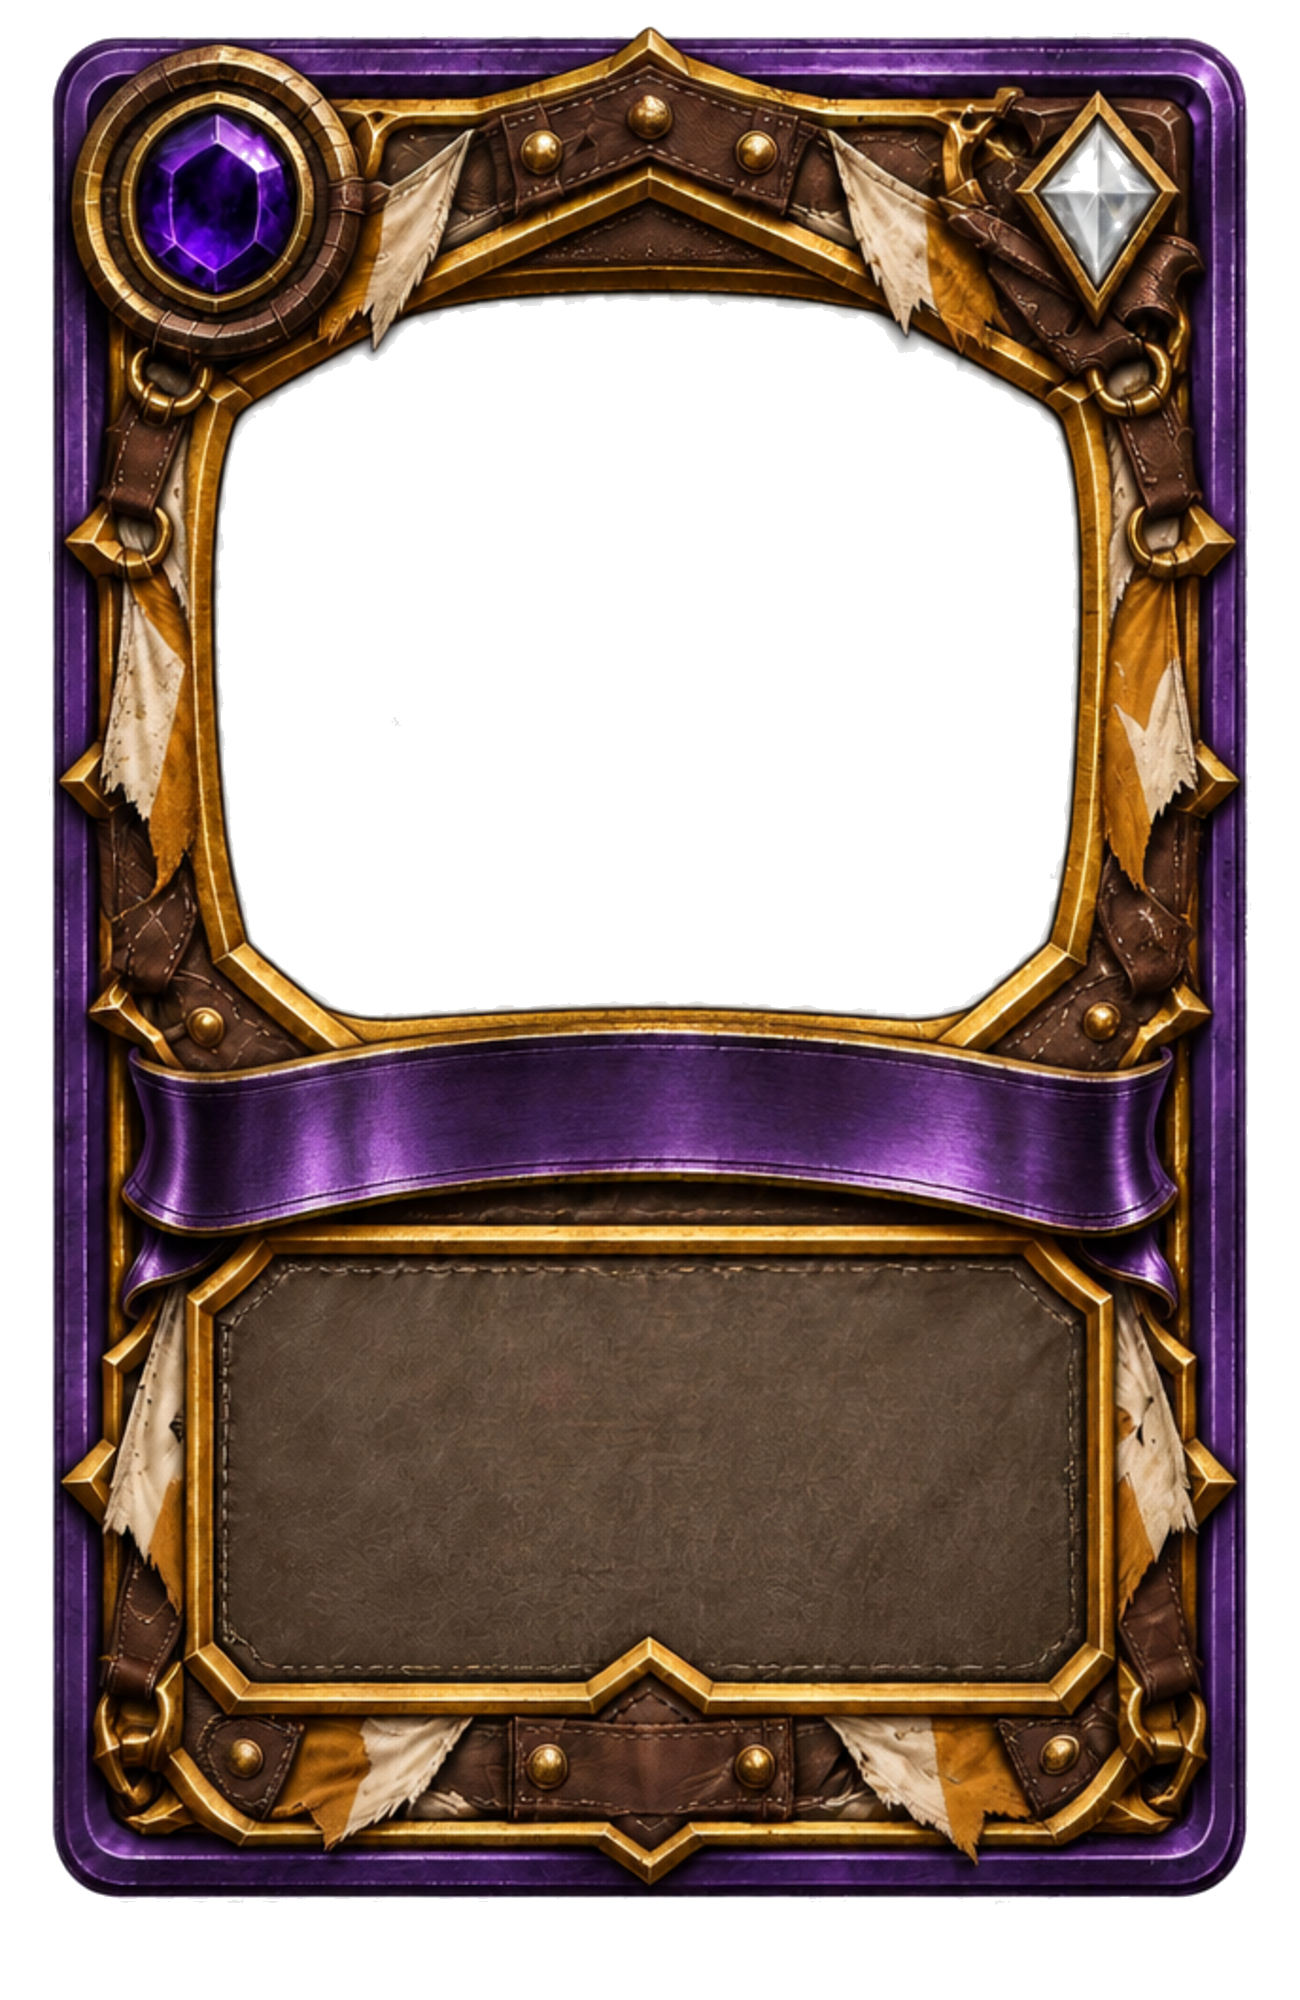
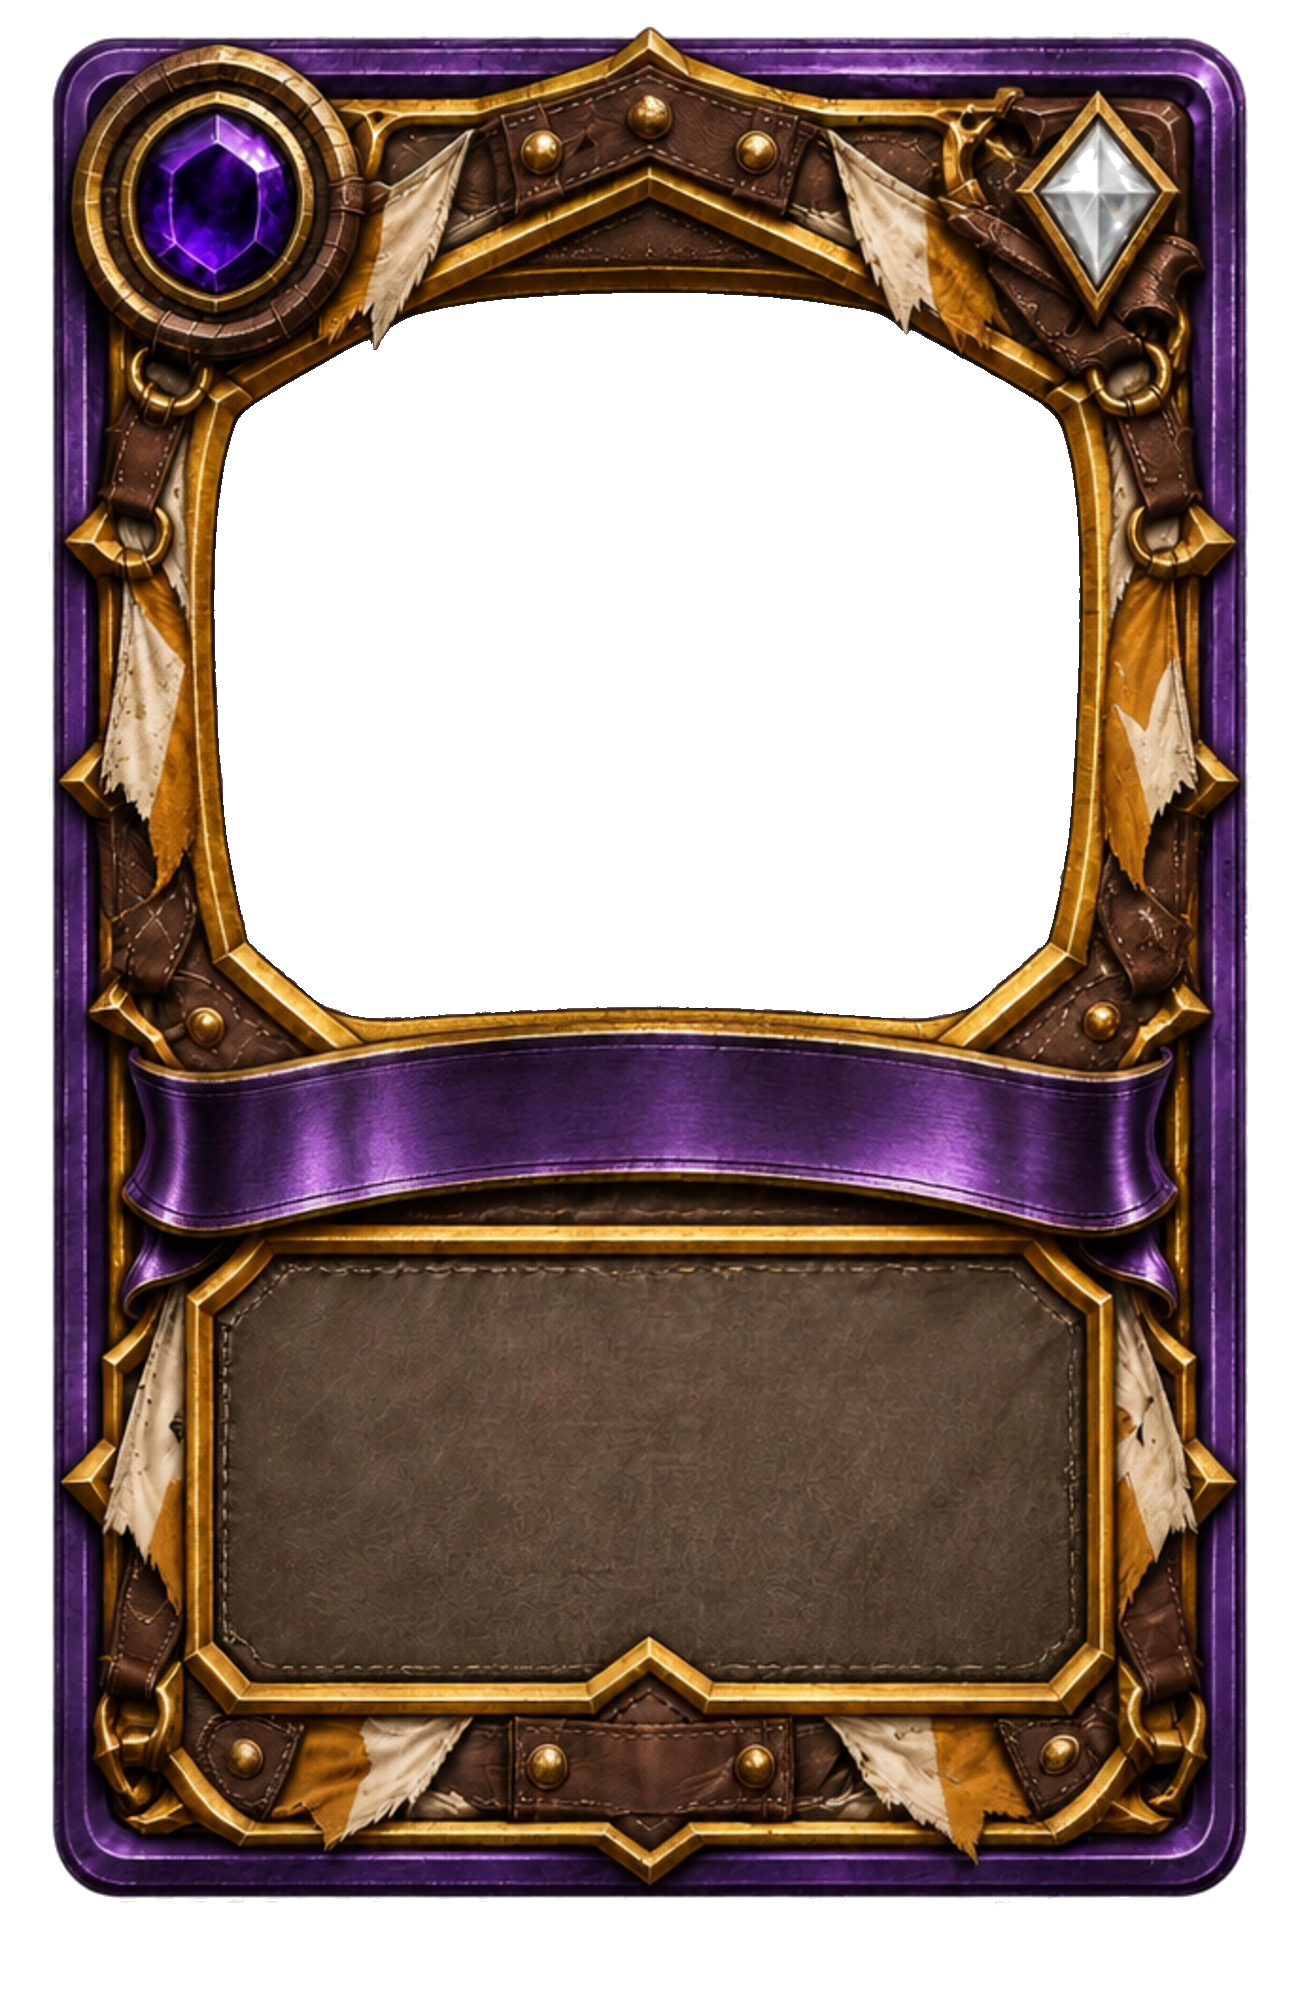
v0.221: battlefield art-hole punch, artifact concepts×3, HUD/end-turn/연속/overlay/lore modal
- Punch battlefield master art window to clean alpha via connected flood-fill
- Add 3 attribute-neutral artifact frame concepts (1300×2000, punched)
- Fix startup layout race (wait boardBg + double rAF; hud-ready)
- End-turn only on pointerup still over #endBtn
- Continuous attack retargets next living enemy after kill
- Nudge unit race label up ~5px and soul digit ~2px
- Tighten card lore modal (fit-content; no min-height stretch)

diff --git a/fantasy_arena/css/game.css b/fantasy_arena/css/game.css
@@ -623,7 +623,7 @@
     width: 58px; height: 72px;
[1 lines of base64/hex data omitted]
   }
-  .gem-cost span { font-size: 22px; transform: translateY(6px); }
+  .gem-cost span { font-size: 22px; transform: translateY(4px); } /* v0.221: soul digit up ~2px */
   .gem-atk {
     bottom: -16px; left: -16px;
     width: 64px; height: 64px;
@@ -728,7 +728,7 @@
   }
   /* hero-card .art is defined once at the top — do not crop to 72px */
   .c-tribe {
-    font-size: 10px; text-align:center; color:#e8c97a; letter-spacing:.12em; margin-top:2px;
+    font-size: 10px; text-align:center; color:#e8c97a; letter-spacing:.12em; margin-top:-3px; /* v0.221: race label up ~5px */
   }
 
 
@@ -964,23 +964,39 @@
   }
   .card-menu h3 { color: var(--gold); margin: 0 0 14px; font-size: 18px; }
   .card-menu button { width: 100%; margin: 6px 0; }
+  /* v0.221: wrap content — no empty right/bottom; card keeps 2:3 */
   .lore-box {
-    display: flex; gap: 22px; align-items: flex-start;
+    display: flex; gap: 16px; align-items: flex-start;
     background: #1a140c; border: 2px solid var(--gold); border-radius: 16px;
-    padding: 18px; max-width: min(920px, 94vw); max-height: 90vh; overflow: auto;
+    padding: 14px 14px 14px 14px;
+    width: fit-content;
+    max-width: min(920px, 94vw); max-height: 90vh; overflow: auto;
+    box-sizing: border-box;
   }
-  .lore-box .lore-card { width: min(300px, 42vw); flex: 0 0 auto; }
-  .lore-box .lore-card img, .lore-box .lore-card .card { width: 100%; height: auto; aspect-ratio: 2 / 3; }
-  .lore-side { color: #e8dcc0; max-width: 460px; display: flex; flex-direction: column; min-height: 100%; }
-  .lore-side h3 { color: var(--gold); margin: 0 0 6px; font-size: 30px; }
-  .lore-side .lore-meta { color: #cbb58a; font-size: 16px; margin-bottom: 12px; line-height: 1.45; }
-  .lore-side .lore-skills { margin: 0 0 14px; }
-  .lore-side .lore-skill { margin: 0 0 10px; padding: 8px 10px; background: rgba(60,42,20,.45); border: 1px solid #5a4424; border-radius: 8px; }
-  .lore-side .lore-skill b { display: block; color: #f3e2b0; font-size: 17px; margin-bottom: 4px; }
-  .lore-side .lore-skill span { display: block; color: #d8c9a4; font-size: 15px; line-height: 1.45; }
-  .lore-side p { line-height: 1.65; font-size: 18px; margin: 0 0 16px; color: #cbb58a; font-style: italic; }
-  .lore-side .lore-actions { margin-top: auto; display: flex; flex-direction: column; gap: 10px; padding-top: 8px; }
-  .lore-side .lore-actions .menu-btn { width: 100%; min-width: 0; margin: 0; font-size: 17px; padding: 12px 16px; box-sizing: border-box; }
+  .lore-box .lore-card { width: min(280px, 40vw); flex: 0 0 auto; }
+  .lore-box .lore-card img, .lore-box .lore-card .card {
+    width: 100%; height: auto; aspect-ratio: 2 / 3; object-fit: contain; display: block;
+  }
+  .lore-side {
+    color: #e8dcc0;
+    flex: 0 1 auto;
+    width: min(340px, 46vw);
+    max-width: 340px;
+    display: flex; flex-direction: column;
+    /* no min-height:100% — that stretched side to card height and left bottom gap */
+  }
+  .lore-side h3 { color: var(--gold); margin: 0 0 6px; font-size: 28px; }
+  .lore-side .lore-meta { color: #cbb58a; font-size: 15px; margin-bottom: 10px; line-height: 1.45; }
+  .lore-side .lore-skills { margin: 0 0 10px; }
+  .lore-side .lore-skill { margin: 0 0 8px; padding: 8px 10px; background: rgba(60,42,20,.45); border: 1px solid #5a4424; border-radius: 8px; }
+  .lore-side .lore-skill b { display: block; color: #f3e2b0; font-size: 16px; margin-bottom: 4px; }
+  .lore-side .lore-skill span { display: block; color: #d8c9a4; font-size: 14px; line-height: 1.45; }
+  .lore-side p { line-height: 1.55; font-size: 16px; margin: 0 0 12px; color: #cbb58a; font-style: italic; }
+  .lore-side .lore-actions {
+    margin-top: 10px; /* sit under content, not pushed to card bottom */
+    display: flex; flex-direction: column; gap: 8px; padding-top: 0;
+  }
+  .lore-side .lore-actions .menu-btn { width: 100%; min-width: 0; margin: 0; font-size: 16px; padding: 11px 14px; box-sizing: border-box; }
   .lore-side .lore-actions .menu-btn.ghost { opacity: 1; }
 
 
@@ -4038,6 +4054,19 @@ html.is-desktop #game.active .my-hand .card.playable,
   padding-bottom: 0 !important;
 }
 
+
+/* v0.220: hide HUD chrome until JS seats it (avoids first-frame giant heroes / wrong endBtn) */
+#game.active:not(.hud-ready) .col-hud .hud-hero,
+#game.active:not(.hud-ready) .col-hud .hero-hp,
+#game.active:not(.hud-ready) #endBtn {
+  opacity: 0;
+  pointer-events: none;
+}
+#game.active.hud-ready .col-hud .hud-hero,
+#game.active.hud-ready .col-hud .hero-hp,
+#game.active.hud-ready #endBtn {
+  opacity: 1;
+}
 
 /* v0.219 HUD gem seat — neutralize legacy corner-soul !important pins; geometry owned by layoutHudGems() */
 #game.active .col-main > .corner-soul.opp,

diff --git a/fantasy_arena/js/render.js b/fantasy_arena/js/render.js
@@ -1,5 +1,39 @@
 
+/** Run all board/HUD absolute layouts once geometry is measurable. */
+function runBoardLayouts() {
+  try { layoutBoardSlots(); } catch (e) {}
+  try { layoutBoardAlign(); } catch (e) {}
+  try { layoutBoardDecks(); } catch (e) {}
+  try { layoutEndBtn(); } catch (e) {}
+  try { layoutHudGems(); } catch (e) {}
+  const g = document.getElementById("game");
+  const bg = document.getElementById("boardBgLayer");
+  if (g && bg && bg.naturalWidth) g.classList.add("hud-ready");
+}
 
+/** Wait until board art has naturalWidth (or error), then double-rAF layout. */
+function ensureBoardLayouts() {
+  const bg = document.getElementById("boardBgLayer");
+  const kick = () => {
+    requestAnimationFrame(() => {
+      requestAnimationFrame(() => { runBoardLayouts(); });
+    });
+  };
+  if (!bg) { kick(); return; }
+  if (bg.complete && bg.naturalWidth > 0) { kick(); return; }
+  if (bg._layoutWaitBound) { kick(); return; }
+  bg._layoutWaitBound = true;
+  const done = () => {
+    bg._layoutWaitBound = false;
+    bg.removeEventListener("load", done);
+    bg.removeEventListener("error", done);
+    kick();
+  };
+  bg.addEventListener("load", done);
+  bg.addEventListener("error", done);
+  // Fallback if load already raced
+  setTimeout(() => { if (bg.naturalWidth > 0 || bg.complete) done(); }, 0);
+}
 
 function layoutBoardDecks() {
   const main = document.querySelector("#game.active .col-main");
@@ -135,12 +169,8 @@ function render() {
   }
   document.getElementById("oppBoard").classList.toggle("empty", !opp.board.length);
   document.getElementById("myBoard").classList.toggle("empty", !me.board.length);
-  layoutBoardSlots();
-  layoutBoardAlign();
-  layoutBoardDecks();
-  layoutEndBtn();
-  layoutHudGems();
-  requestAnimationFrame(() => { layoutBoardSlots(); layoutBoardAlign(); layoutBoardDecks(); layoutEndBtn(); layoutHudGems(); });
+  // Board chrome: wait for boardBgLayer natural size, then double-rAF so first paint is correct
+  ensureBoardLayouts();
 
   const oppDeckEl = document.getElementById("oppDeck");
   const myDeckEl = document.getElementById("myDeck");
@@ -506,8 +536,8 @@ async function composeCardFace(c, opts={}) {
       ctx.strokeStyle = "#120800";
       ctx.fillStyle = "#fff8e8";
     }
-    ctx.strokeText(headerTxt, W*0.50, H*0.074);
-    ctx.fillText(headerTxt, W*0.50, H*0.074);
+    ctx.strokeText(headerTxt, W*0.50, H*0.0697);
+    ctx.fillText(headerTxt, W*0.50, H*0.0697);
     ctx.restore();
   }
 
@@ -546,7 +576,7 @@ async function composeCardFace(c, opts={}) {
     ctx.restore();
   }
 
-  paintNumber(ctx, String(c.cost ?? 0), W*0.1386, H*0.1013, Math.round(H*0.070));
+  paintNumber(ctx, String(c.cost ?? 0), W*0.1386, H*0.0996, Math.round(H*0.070));
   const paintFrameStats = c.type === "minion" || (c.type === "item");
   if (paintFrameStats) {
     const hp = opts.hp != null ? opts.hp : c.hp;
@@ -990,22 +1020,49 @@ function updateEndBtn(myTurn) {
     const btn = document.getElementById("endBtn");
     if (!btn || btn._endBtnPressBound) return;
     btn._endBtnPressBound = true;
-    const release = () => {
+    const clearHold = () => {
       if (!btn._endBtnHolding) return;
       btn._endBtnHolding = false;
       setEndBtnBg(btn, btn._endBtnDesiredSrc || endBtnHudSrcs().off);
+    };
+    const stillOverBtn = (e) => {
+      try {
+        const x = e.clientX, y = e.clientY;
+        if (typeof x === "number" && typeof y === "number") {
+          const top = document.elementFromPoint(x, y);
+          if (top && (top === btn || btn.contains(top))) return true;
+        }
+      } catch (err) {}
+      // fallback: event target still inside button
+      const t = e.target;
+      return !!(t && (t === btn || (btn.contains && btn.contains(t))));
     };
     btn.addEventListener("pointerdown", (e) => {
       if (btn.disabled || !btn.classList.contains("my-turn")) return;
       if (e.button != null && e.button !== 0) return;
       btn._endBtnHolding = true;
+      btn._endBtnArmed = true;
       setEndBtnBg(btn, endBtnHudSrcs().off);
       try { btn.setPointerCapture(e.pointerId); } catch (err) {}
     });
-    btn.addEventListener("pointerup", release);
-    btn.addEventListener("pointercancel", release);
-    btn.addEventListener("lostpointercapture", release);
-    btn.addEventListener("pointerleave", release);
+    const onUp = (e) => {
+      const armed = !!btn._endBtnArmed;
+      btn._endBtnArmed = false;
+      clearHold();
+      if (!armed) return;
+      if (btn.disabled || !btn.classList.contains("my-turn")) return;
+      // Cancel if release is not on #endBtn (drag-off)
+      if (!stillOverBtn(e)) return;
+      try { if (typeof Sfx !== "undefined" && Sfx.playTurn) Sfx.playTurn(); } catch (err) {}
+      try { if (typeof endTurn === "function") endTurn(); } catch (err) {}
+    };
+    btn.addEventListener("pointerup", onUp);
+    btn.addEventListener("pointercancel", () => { btn._endBtnArmed = false; clearHold(); });
+    btn.addEventListener("lostpointercapture", () => {
+      // capture lost without pointerup path — cancel arm, clear visual
+      if (btn._endBtnArmed) { btn._endBtnArmed = false; clearHold(); }
+    });
+    // Do not end turn on leave; keep pressed visual while captured/holding
   }
   if (document.readyState === "loading") {
     document.addEventListener("DOMContentLoaded", bind);
@@ -1019,7 +1076,7 @@ function updateEndBtn(myTurn) {
   let t = 0;
   const kick = () => {
     clearTimeout(t);
-    t = setTimeout(() => { try { layoutHandFan(); layoutOppFan(); layoutBoardDecks(); layoutEndBtn(); layoutHudGems(); } catch (e) {} }, 50);
+    t = setTimeout(() => { try { layoutHandFan(); layoutOppFan(); ensureBoardLayouts(); } catch (e) {} }, 50);
   };
   window.addEventListener("resize", kick);
   window.addEventListener("orientationchange", kick);

diff --git a/fantasy_arena/js/combat.js b/fantasy_arena/js/combat.js
@@ -203,15 +203,50 @@ function doAttack(p, attacker, target, auto) {
         await waitMs(hits > 1 ? 300 : 420);
       }
     } else {
-      // single minion: 연속(4)=two hits with counter each; 혼란(11)=no counter; 돌파(10)=overkill chain
+      // single minion: 연속(4)=two hits with counter each (kill→retarget next living);
+      // 혼란(11)=no counter; 돌파(10)=overkill chain
       const hits = (sk === 4) ? 2 : 1;
       let lastHpDmg = 0;
       let lastHpBefore = 0;
       let killedByHit = false;
       for (let hit = 1; hit <= hits; hit++) {
         if (attacker.hp <= 0 || attacker.dying) break;
-        if (!(def && def.hp > 0 && !def.dying)) break;
-        const blocked = (hit === 1) ? (window._pendingDef || 0) : Math.max(0, def.def || 0);
+        // 연속: 1타 처치 후 남은 타는 다음 생존 적(하수인→영웅)으로 재지정. 시체/스킵 금지.
+        if (!(def && def.hp > 0 && !def.dying)) {
+          if (sk !== 4) break;
+          const legalNext = attackTargets(p, attacker);
+          const nextM = legalNext.find(t => t.kind === "minion" && t.minion && t.minion.hp > 0 && !t.minion.dying);
+          const nextH = legalNext.find(t => t.kind === "hero" && t.owner && t.owner.hp > 0);
+          if (nextM) {
+            def = nextM.minion;
+            target = nextM;
+            dAtk = clampAtk(Number(def.atk) || 0);
+            log(`${attacker.name} 연속 재지정 → ${def.name}`);
+          } else if (nextH) {
+            log(`${attacker.name} 연속 재지정 → 영웅`);
+            const isMeHero = nextH.owner === meView().me;
+            const defElH = Vfx.heroOf(isMeHero);
+            const calcH = calcAtkSkillHpDamage(attacker, aAtk, 0, aDefNow, null);
+            let hpDmgH = calcH.hpDmg;
+            if (hits > 1) log(`${attacker.name} 연속 ${hit}/${hits}`);
+            const critH = hpDmgH >= attacker.atk + 3 || sk === 5;
+            try { if (typeof SpellFx !== "undefined" && SpellFx.playCombat) SpellFx.playCombat("attack", { hero: isMeHero ? "me" : "opp" }); } catch (e) {}
+            await Vfx.attackSeq(atkEl, defElH, hpDmgH, critH);
+            if (sk === 5 && hpDmgH >= 1) {
+              dealHero(nextH.owner, Math.max(hpDmgH, nextH.owner.hp));
+              log(`${attacker.name} 치명공격 → 영웅 즉사급 피해`);
+            } else {
+              dealHero(nextH.owner, hpDmgH);
+            }
+            if (sk === 6) applyLifesteal(attacker, hpDmgH);
+            render();
+            await waitMs(hits > 1 ? 300 : 420);
+            continue;
+          } else {
+            break;
+          }
+        }
+        const blocked = (hit === 1 && def === (target && target.minion)) ? (window._pendingDef || 0) : Math.max(0, def.def || 0);
         const backBlock = window._pendingAtkDef || 0;
         const calc = calcAtkSkillHpDamage(attacker, aAtk, blocked, aDefNow, def);
         let hpDmg = calc.hpDmg;
@@ -242,8 +277,10 @@ function doAttack(p, attacker, target, auto) {
         lastHpBefore = hpBefore;
         const survived = def && def.hp > 0 && !def.dying;
         killedByHit = !survived;
-        if (sk !== 11 && survived && dAtk && attacker.hp > 0 && !attacker.dying) {
-          const dmgBack = Math.max(0, dAtk - backBlock);
+        // counter uses this hit's defender current atk if retargeted mid-연속
+        const counterAtk = (hit === 1) ? dAtk : clampAtk(Number(def.atk) || 0);
+        if (sk !== 11 && survived && counterAtk && attacker.hp > 0 && !attacker.dying) {
+          const dmgBack = Math.max(0, counterAtk - backBlock);
           if (dmgBack > 0) {
             log(`${def.name} 반격`);
             const atkNow = Vfx.elOf(attacker.uid);
@@ -262,7 +299,8 @@ function doAttack(p, attacker, target, auto) {
           try { if (typeof SpellFx !== "undefined" && SpellFx.playCombat) SpellFx.playCombat("death", { uid: def.uid }); } catch (e) {}
           Vfx.death(deadEl);
           await waitMs(520);
-          break;
+          // 연속: 남은 타가 있으면 break하지 않고 다음 루프에서 재지정
+          if (!(sk === 4 && hit < hits)) break;
         }
       }
 
@@ -405,7 +443,9 @@ function hideScreens() {
 }
 function showGame() {
   hideScreens();
-  document.getElementById("game").classList.add("active");
+  const g = document.getElementById("game");
+  g.classList.add("active");
+  g.classList.remove("hud-ready"); // wait for ensureBoardLayouts
   try { Bgm.to("battle", 900); } catch (e) {}
 }
 function backTitle() {

diff --git a/fantasy_arena/js/game.js b/fantasy_arena/js/game.js
@@ -1,4 +1,4 @@
-const GAME_VERSION = "0.219";
+const GAME_VERSION = "0.221";
 window.GAME_VERSION = GAME_VERSION;
 
 function uid() { return Math.random().toString(36).slice(2, 9); }
@@ -1827,8 +1827,8 @@ function onMinionClick(owner, minion, side) {
 }
 
 document.getElementById("game").addEventListener("click", (e) => {
-  const endBtnEl = e.target.id === "endBtn" ? e.target : e.target.closest("#endBtn");
-  if (endBtnEl && !endBtnEl.disabled) { Sfx.playTurn && Sfx.playTurn(); endTurn(); return; }
+  // #endBtn: endTurn only via pointerdown+pointerup both on button (see bindEndBtnPressVisual)
+  if (e.target.id === "endBtn" || (e.target.closest && e.target.closest("#endBtn"))) return;
   if (e.target.id === "giveBtn") { confirmGiveUp(); return; }
   const portrait = e.target.closest(".hero-portrait, .hero-slot, .hud-hero");
   if (portrait) {
@@ -1962,7 +1962,7 @@ const ATK_SKILL_HELP = {
   1: ["일반공격", "공격력만큼 공격합니다."],
   2: ["관통공격", "방어를 먼저 깎으며 공격합니다."],
   3: ["돌진공격", "내 방어력만큼 추가하여 공격합니다."],
-  4: ["연속공격", "두 번 공격합니다."],
+  4: ["연속공격", "두 번 공격합니다. 처치 시 다음 생존 적에게 이어집니다."],
   5: ["치명공격", "체력을 1 이상 깎으면 적이 바로 죽습니다."],
   6: ["흡혈공격", "준 피해의 절반만큼 체력을 회복합니다."],
   7: ["약화공격", "공격 전에 적 공격·방어를 1씩 낮춥니다."],
